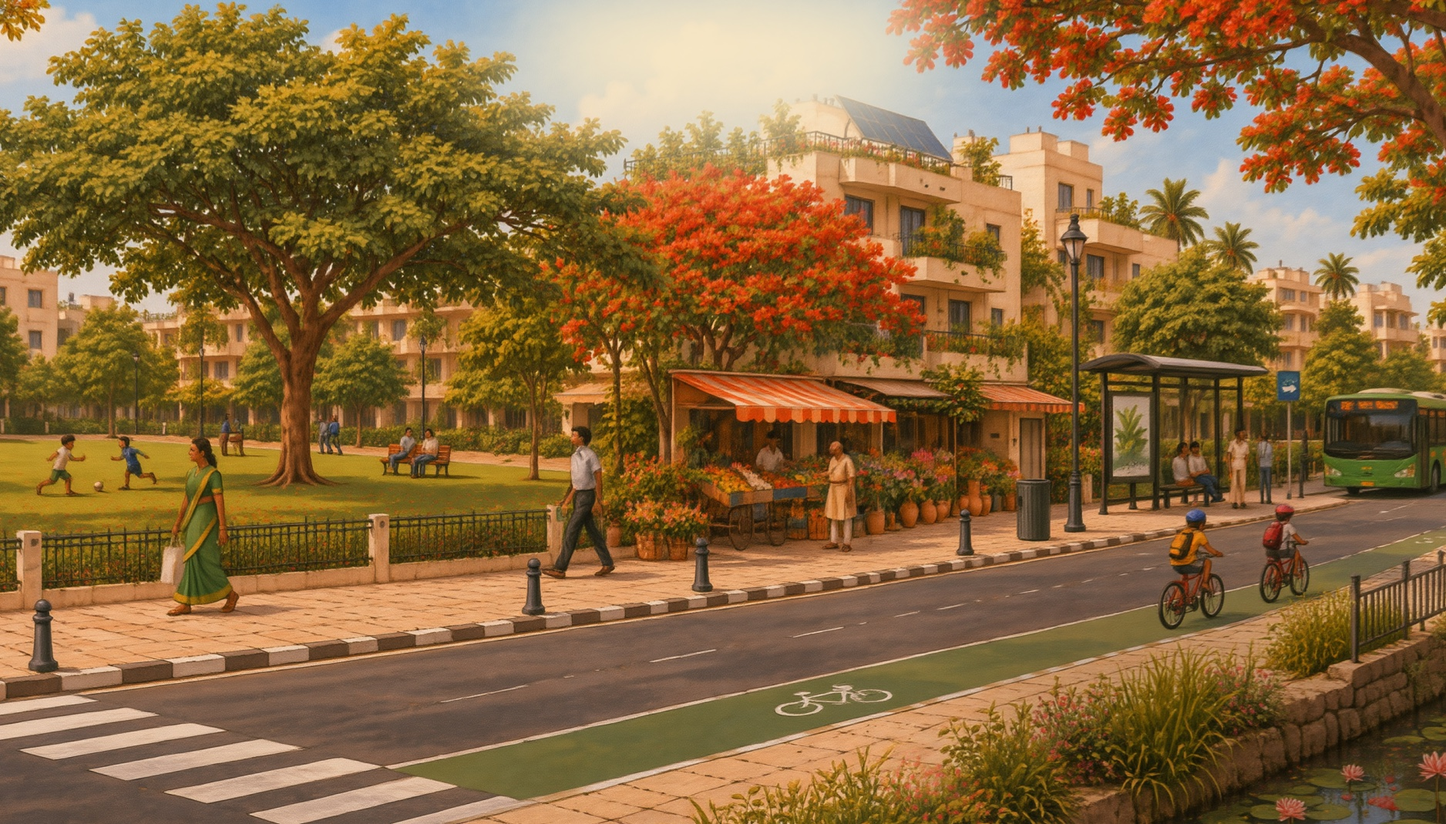
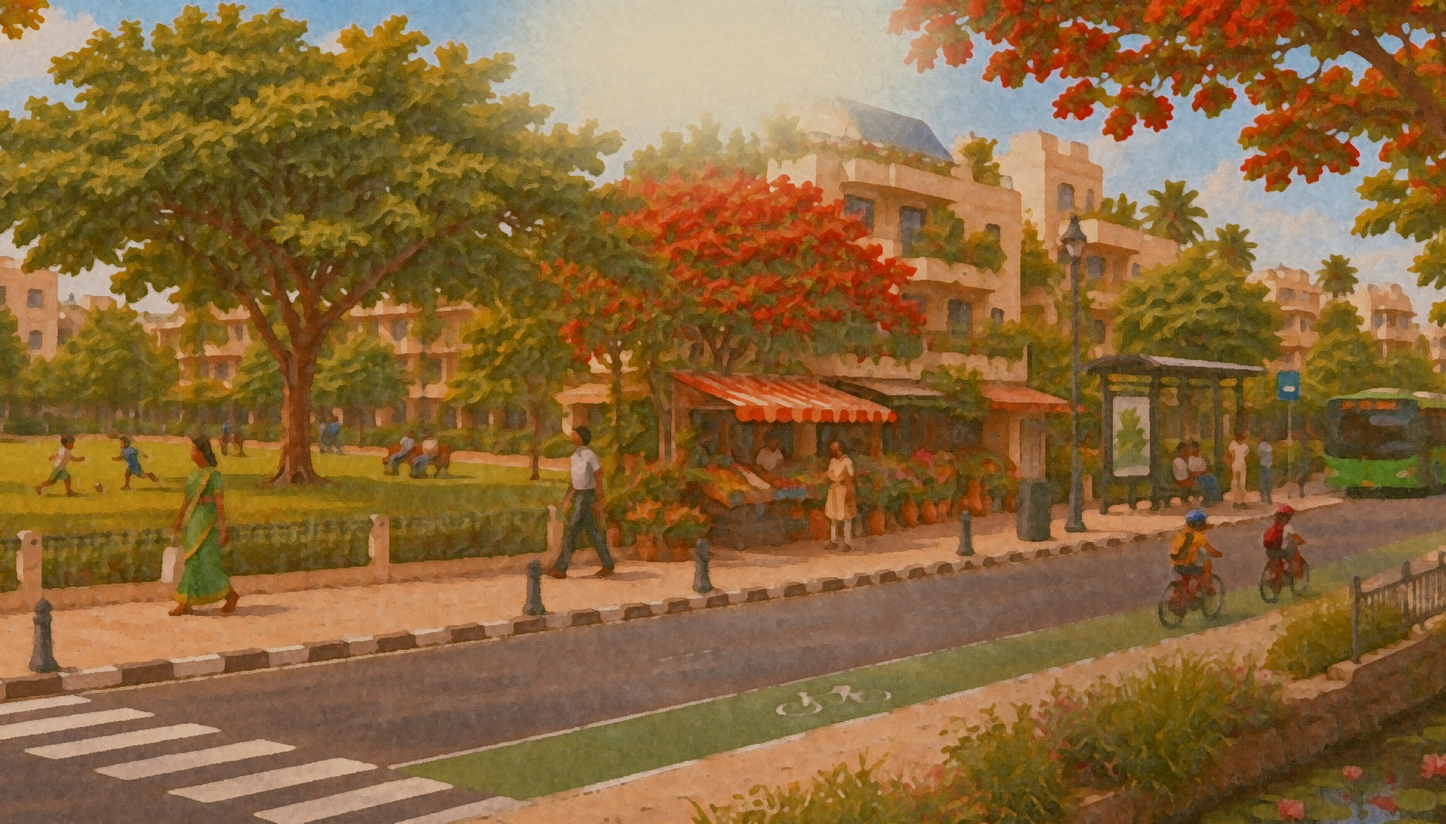
Add files via upload

diff --git a/styles.css b/styles.css
@@ -114,8 +114,12 @@ body.fab-on-dark .apply-fab__rust { opacity: 0; }
 .hero__stage { position: relative; height: calc(var(--vh) * 100); min-height: 520px; overflow: hidden; }
 .hero__probe { position: absolute; inset: var(--ct) var(--cs) var(--cb) var(--cs); visibility: hidden; pointer-events: none; }
 .hero__card { position: absolute; inset: 0; clip-path: inset(var(--ct) var(--cs) var(--cb) var(--cs) round 18px); will-change: clip-path; }
-.hero__card img { position: absolute; left: 0; top: 0; width: 100%; height: 112%; object-fit: cover; object-position: 50% 50%; transform: translate3d(0, -9vh, 0); will-change: transform; }
-.hero__headline { position: absolute; left: 0; right: 0; bottom: calc(var(--cb) - 0.1em); margin: 0; text-align: center; white-space: nowrap; color: #FFFAEC; font-weight: 700; font-size: clamp(2.6rem, 8.6vw, 10.5rem); line-height: 0.78; letter-spacing: -0.045em; will-change: transform; text-shadow: 0 2px 30px rgba(44, 43, 50, 0.18); }
+/* Both hero pictures: a touch more contrast, slightly less colour, and a faint blue wash to take the warmth down */
+.hero__card::after { content: ""; position: absolute; inset: 0; background: #4a86ff; mix-blend-mode: soft-light; opacity: 0.2; pointer-events: none; }
+.hero__card img { filter: contrast(1.08) saturate(0.94); position: absolute; left: 0; top: 0; width: 100%; height: 112%; object-fit: cover; object-position: 50% 50%; transform: translate3d(0, -9vh, 0); will-change: transform; }
+/* Wide version of the scene: fades in as the image frames up into its card, and always fills the card exactly */
+.hero__card img.hero__wide { left: var(--cs); top: var(--ct); width: calc(100% - var(--cs) * 2); height: calc(100% - var(--ct) - var(--cb)); transform: none; will-change: opacity; }
+.hero__headline { z-index: 1; position: absolute; left: 0; right: 0; bottom: calc(var(--cb) - 0.1em); margin: 0; text-align: center; white-space: nowrap; color: #FFFAEC; font-weight: 700; font-size: clamp(2.6rem, 8.6vw, 10.5rem); line-height: 0.78; letter-spacing: -0.045em; will-change: transform; text-shadow: 0 2px 30px rgba(44, 43, 50, 0.18); }
 .hero__below { position: absolute; left: 0; right: 0; bottom: 0; height: var(--cb); display: flex; flex-direction: column; align-items: center; justify-content: center; gap: clamp(12px, 2.2vh, 22px); padding: 0 var(--gutter); text-align: center; }
 .hero__line { font-size: clamp(1rem, 1.35vw, 1.25rem); font-weight: 500; color: var(--green); letter-spacing: -0.01em; }
 .ward { display: inline-flex; justify-content: center; vertical-align: middle; width: 9.4em; margin: 0 0.15em; padding: 0.3em 0; border-radius: 999px; background: var(--cream); border: 1px solid var(--clay); color: var(--rust); overflow: hidden; }
@@ -136,11 +140,12 @@ body.fab-on-dark .apply-fab__rust { opacity: 0; }
 
 /* Glass finish for buttons: each keeps its own colour and gains a lens-like sheen, a bright
    rim, soft inner shading and the same orbiting glints as the glass lens. */
-.btn, .seg button[aria-checked="true"] { position: relative; isolation: isolate; }
-.btn, .js .sound, .seg button[aria-checked="true"] { background-image: linear-gradient(168deg, rgba(255, 255, 255, 0.36), rgba(255, 255, 255, 0) 44%, rgba(255, 255, 255, 0.14)); box-shadow: inset 0 1.5px 1px rgba(255, 255, 255, 0.62), inset 0 -2px 3px rgba(255, 255, 255, 0.22), inset 0 0 8px 1px rgba(255, 255, 255, 0.14), inset 0 -10px 12px -9px rgba(20, 30, 16, 0.26), 0 6px 16px rgba(20, 30, 16, 0.18), 0 1px 3px rgba(20, 30, 16, 0.2); }
+.btn, .seg button[aria-checked="true"], .asks li:first-child { position: relative; isolation: isolate; }
+.btn, .js .sound, .seg button[aria-checked="true"], .asks li:first-child { background-image: linear-gradient(168deg, rgba(255, 255, 255, 0.36), rgba(255, 255, 255, 0) 44%, rgba(255, 255, 255, 0.14)); box-shadow: inset 0 1.5px 1px rgba(255, 255, 255, 0.62), inset 0 -2px 3px rgba(255, 255, 255, 0.22), inset 0 0 8px 1px rgba(255, 255, 255, 0.14), inset 0 -10px 12px -9px rgba(20, 30, 16, 0.26), 0 6px 16px rgba(20, 30, 16, 0.18), 0 1px 3px rgba(20, 30, 16, 0.2); }
 .btn--ghost { -webkit-backdrop-filter: blur(8px) saturate(1.5); backdrop-filter: blur(8px) saturate(1.5); }
-.btn::before, .js .sound::before, .seg button[aria-checked="true"]::before { content: ""; position: absolute; inset: 0; border-radius: inherit; padding: 2px; pointer-events: none; background: conic-gradient(from var(--glint), transparent 0 7%, #C5562C 10.5%, #FAB52A 14.5%, #FFEFD6 18%, #FAB52A 21%, #C5562C 24%, transparent 27% 56%, #FFEFD6 60%, #FAB52A 64%, #C5562C 67%, transparent 71% 100%); -webkit-mask: linear-gradient(#000 0 0) content-box, linear-gradient(#000 0 0); -webkit-mask-composite: xor; mask: linear-gradient(#000 0 0) content-box exclude, linear-gradient(#000 0 0); animation: glint 9s linear infinite; }
+.btn::before, .js .sound::before, .seg button[aria-checked="true"]::before, .asks li:first-child::before { content: ""; position: absolute; inset: 0; border-radius: inherit; padding: 2px; pointer-events: none; background: conic-gradient(from var(--glint), transparent 0 7%, #C5562C 10.5%, #FAB52A 14.5%, #FFEFD6 18%, #FAB52A 21%, #C5562C 24%, transparent 27% 56%, #FFEFD6 60%, #FAB52A 64%, #C5562C 67%, transparent 71% 100%); -webkit-mask: linear-gradient(#000 0 0) content-box, linear-gradient(#000 0 0); -webkit-mask-composite: xor; mask: linear-gradient(#000 0 0) content-box exclude, linear-gradient(#000 0 0); animation: glint 9s linear infinite; }
 .btn::before { inset: -2px; }
+.asks li:first-child::before { inset: -1px; }
 .chip { box-shadow: inset 0 1.5px 1px rgba(255, 255, 255, 0.6), inset 0 -8px 10px -8px rgba(20, 30, 16, 0.2), 0 3px 10px rgba(20, 30, 16, 0.12); }
 
 .hero__cue { display: none; }
@@ -178,6 +183,8 @@ body.fab-on-dark .apply-fab__rust { opacity: 0; }
 .about { background: var(--green-deep); color: var(--cream); position: relative; }
 .about__stage { min-height: calc(var(--vh) * 100); display: flex; flex-direction: column; justify-content: center; align-items: center; text-align: center; padding: 120px var(--gutter) 80px; max-width: 1280px; margin-inline: auto; }
 .about__text { font-family: var(--display); font-weight: 500; font-size: clamp(1.45rem, 2.9vw, 2.7rem); line-height: 1.18; letter-spacing: -0.02em; max-width: min(100%, 900px); text-wrap: balance; }
+/* Programme name: same type as the paragraph below it, in the eyebrow's yellow */
+.about__title { margin: 0 0 0.55em; font-family: var(--display); font-weight: 500; font-size: clamp(1.45rem, 2.9vw, 2.7rem); line-height: 1.18; letter-spacing: -0.02em; color: var(--yellow); }
 .about__text .w { white-space: nowrap; opacity: var(--o, 1); transition: opacity 0.12s linear; }
 .js .about { height: calc(var(--vh) * 260); }
 .js .about__stage { position: sticky; top: 0; height: calc(var(--vh) * 100); }
@@ -227,7 +234,13 @@ body.fab-on-dark .apply-fab__rust { opacity: 0; }
 /* ---------- 4. Who it's for ---------- */
 .who { padding: clamp(80px, 14vh, 160px) 0; background: var(--paper); overflow: hidden; }
 .who__head { text-align: center; }
-.who__head h2 { max-width: 18ch; margin-inline: auto; }
+.who__head h2 { max-width: 18ch; margin-inline: auto; color: var(--green); }
+/* The three themes, each with its own colour dot */
+.who__themes { display: flex; flex-wrap: wrap; justify-content: center; gap: 10px; margin-top: clamp(1.4rem, 3.5vh, 2.2rem); }
+.who__themes li { display: inline-flex; align-items: center; gap: 0.6em; padding: 0.6em 1.25em 0.6em 1.05em; border-radius: 999px; background: var(--cream); color: var(--green-deep); font-family: var(--display); font-weight: 500; font-size: clamp(1rem, 1.35vw, 1.2rem); letter-spacing: -0.01em; }
+.who__themes li::before { content: ""; width: 0.55em; height: 0.55em; border-radius: 50%; background: var(--sage); }
+.who__themes li:nth-child(2)::before { background: var(--yellow); }
+.who__themes li:nth-child(3)::before { background: var(--rust); }
 .marquee { margin: clamp(48px, 9vh, 96px) 0; display: grid; gap: clamp(10px, 2vh, 22px); -webkit-mask: linear-gradient(to right, transparent, #000 10%, #000 90%, transparent); mask: linear-gradient(to right, transparent, #000 10%, #000 90%, transparent); }
 .marquee__row { overflow: hidden; }
 .marquee__track { display: flex; width: max-content; animation: marquee 70s linear infinite; }
@@ -266,6 +279,7 @@ body.fab-on-dark .apply-fab__rust { opacity: 0; }
 .asks h3 { font-size: clamp(1.1rem, 1.6vw, 1.35rem); font-weight: 500; color: var(--yellow); }
 .asks ul { display: flex; flex-wrap: wrap; gap: 10px; }
 .asks li { font-size: 0.92rem; border: 1px solid rgba(255, 239, 214, 0.5); border-radius: 999px; padding: 0.55em 1.1em; }
+.asks li:first-child { background: var(--yellow); border-color: var(--yellow); color: var(--ink); font-weight: 500; }
 @media (max-width: 760px) {
   .step { grid-template-columns: auto 1fr auto; gap: 12px; }
   .step__icon { width: 60px; }
@@ -386,6 +400,6 @@ html[lang="kn"] .ward { margin-inline: 0.5em; }
 @media (prefers-reduced-motion: reduce) {
   html { scroll-behavior: auto; }
   .marquee__track { animation-duration: 240s; }
-  .hero__cue i, .hero__cue svg, .sound__wave, .glass::before, .btn::before, .sound::before, .seg button::before { animation: none !important; }
+  .hero__cue i, .hero__cue svg, .sound__wave, .glass::before, .btn::before, .sound::before, .seg button::before, .asks li::before { animation: none !important; }
   .tab-lens.is-ready { transition: opacity 0.3s; }
 }

diff --git a/index.html b/index.html
@@ -8,15 +8,17 @@
   <meta property="og:title" content="NoTF BLR Small Grants | The fix is local">
   <meta property="og:description" content="Neighbourhood fixes, funded in Bengaluru and shared with the world.">
   <meta property="og:image" content="images/hero-alt.jpg">
-  <link rel="icon" href="images/favicon.svg?v=15" type="image/svg+xml">
-  <link rel="icon" href="images/favicon-32.png?v=15" type="image/png" sizes="32x32">
-  <link rel="apple-touch-icon" href="images/favicon-180.png?v=15">
+  <!-- Same favicon as notf.in -->
+  <link rel="icon" href="images/favicon.ico?v=26" type="image/x-icon">
+  <link rel="icon" href="images/favicon-16.png?v=26" type="image/png" sizes="16x16">
+  <link rel="icon" href="images/favicon-32.png?v=26" type="image/png" sizes="32x32">
+  <link rel="apple-touch-icon" href="images/favicon-180.png?v=26" sizes="180x180">
   <!-- Instrument Sans for Latin text, Noto Sans Kannada for Kannada -->
   <link rel="preconnect" href="https://fonts.googleapis.com">
   <link rel="preconnect" href="https://fonts.gstatic.com" crossorigin>
   <link href="https://fonts.googleapis.com/css2?family=Instrument+Sans:wght@400;500;700&family=Noto+Sans+Kannada:wght@400;500;700&display=swap" rel="stylesheet">
-  <link rel="preload" as="image" href="images/hero.jpg?v=14">
-  <link rel="stylesheet" href="styles.css?v=14">
+  <link rel="preload" as="image" href="images/hero.jpg?v=26">
+  <link rel="stylesheet" href="styles.css?v=26">
 </head>
 <body>
   <a class="skip" href="#about">Skip to content</a>
@@ -46,8 +48,8 @@
   <!-- Floating Apply button (asset swaps white/rust by background) -->
   <a class="apply-fab" href="#apply" aria-label="Apply now">
     <span class="apply-fab__in">
-      <img class="apply-fab__white" src="images/apply-white.svg?v=14" alt="" width="250" height="130">
-      <img class="apply-fab__rust" src="images/apply-rust.svg?v=14" alt="" width="250" height="130">
+      <img class="apply-fab__white" src="images/apply-white.svg?v=26" alt="" width="250" height="130">
+      <img class="apply-fab__rust" src="images/apply-rust.svg?v=26" alt="" width="250" height="130">
     </span>
   </a>
 
@@ -57,7 +59,8 @@
       <div class="hero__stage">
         <div class="hero__probe" aria-hidden="true"></div>
         <div class="hero__card">
-          <img src="images/hero.jpg?v=14" alt="Illustration of a Bengaluru neighbourhood street with a park, flower stall, bus stop and cycle lane" fetchpriority="high">
+          <img src="images/hero.jpg?v=26" alt="Illustration of a Bengaluru neighbourhood street with a park, flower stall, bus stop and cycle lane" fetchpriority="high">
+          <img class="hero__wide" src="images/hero-wide.jpg?v=26" alt="">
           <h1 class="hero__headline" data-i18n="hero.h1">The fix is local</h1>
         </div>
         <div class="hero__below">
@@ -76,6 +79,7 @@
     <section class="about" id="about" data-scrub="about">
       <div class="about__stage">
         <p class="eyebrow eyebrow--light" data-i18n="about.eyebrow">About</p>
+        <h2 class="about__title" data-i18n="about.title">Small Grants Program</h2>
         <p class="about__text" data-words data-i18n="about.text">Neighbourhood fixes, funded in Bengaluru and shared with the world. Small, short-term grants for people already solving neighbourhood problems, who just need some help to get across the finish line.</p>
       </div>
     </section>
@@ -117,6 +121,11 @@
       <div class="wrap who__head">
         <p class="eyebrow" data-i18n="who.eyebrow">Who it's for</p>
         <h2 data-i18n="who.h2">For people already fixing <em>their corner</em> of Bengaluru.</h2>
+        <ul class="who__themes" aria-label="Themes">
+          <li data-i18n="theme.1">Environment</li>
+          <li data-i18n="theme.2">Public spaces</li>
+          <li data-i18n="theme.3">Community wellbeing</li>
+        </ul>
       </div>
       <div class="marquee">
         <div class="marquee__row marquee__row--left">
@@ -295,7 +304,8 @@
         <h2 data-i18n="cta.h2">Ready to finish your fix?</h2>
         <p data-i18n="cta.p">The fix is local. The idea travels. If you're already working on a neighbourhood fix and just need a push across the finish line, we'd love to hear from you.</p>
         <div class="cta__btns">
-          <span class="btn btn--cream" aria-disabled="true" data-i18n="cta.soon">Form opens soon</span>
+          <!-- No application form link yet: for now this opens an email to the programme address. Swap the href for the form URL when it exists. -->
+          <a class="btn btn--cream" href="mailto:notf.blr@socratusfoundation.in?subject=Small%20Grants%20application" data-i18n="how.apply">Apply now</a>
           <a class="btn btn--ghost" href="#faq" data-i18n="cta.faq">Read the FAQs</a>
         </div>
       </div>
@@ -316,8 +326,8 @@
     <p class="wrap foot__legal">© 2026 Neighbourhoods of the Future · Part of PDGI (People's Digital Goods &amp; Infrastructure)<br><a href="https://www.notf.in/" target="_blank" rel="noopener">notf.in</a> · <a href="mailto:notf.blr@socratusfoundation.in">notf.blr@socratusfoundation.in</a> · <a href="https://creativecommons.org/licenses/by-nc-sa/4.0/" target="_blank" rel="noopener">CC BY-NC-SA 4.0</a></p>
   </footer>
 
-  <script src="i18n-kn.js?v=14"></script>
-  <script src="script.js?v=14"></script>
-  <script src="ambience.js?v=14"></script>
+  <script src="i18n-kn.js?v=26"></script>
+  <script src="script.js?v=26"></script>
+  <script src="ambience.js?v=26"></script>
 </body>
 </html>

diff --git a/script.js b/script.js
@@ -346,6 +346,7 @@
   /* ---------- Hero refs ---------- */
   const heroCard = $('.hero__card');
   const heroImg = $('img', heroCard);
+  const heroWide = $('.hero__wide', heroCard);
   const heroHeadline = $('.hero__headline');
   const heroBelow = $('.hero__below');
   const heroCue = $('.hero__cue');
@@ -366,6 +367,12 @@
       const bottom = stage.offsetHeight - t - heroProbe.offsetHeight;
       heroCard.style.clipPath = `inset(${e * t}px ${e * side}px ${e * bottom}px ${e * side}px round ${e * 18}px)`;
       heroImg.style.transform = `translate3d(0, ${-e * 9}vh, 0)`;
+      // The wide picture tracks the shrinking frame and takes over from the opening picture
+      heroWide.style.left = `${e * side}px`;
+      heroWide.style.top = `${e * t}px`;
+      heroWide.style.width = `${stage.offsetWidth - e * side * 2}px`;
+      heroWide.style.height = `${stage.offsetHeight - e * (t + bottom)}px`;
+      heroWide.style.opacity = clamp((e - 0.15) / 0.6);
       const h = out(clamp((p - 0.3) / 0.5));
       heroHeadline.style.transform = `translate3d(0, ${(1 - h) * (bottom + heroHeadline.offsetHeight * 1.2)}px, 0)`;
       const b = clamp((p - 0.55) / 0.25);
@@ -376,7 +383,7 @@
       [heroCue, heroSound].forEach(b => { b.style.opacity = cue; b.style.pointerEvents = cue > 0.5 ? '' : 'none'; b.tabIndex = cue > 0.5 ? 0 : -1; });
       // Logo travels from top-centre (on the image) to the top-left of the header bar
       const w = logo.offsetWidth;
-      const s = 1 + (1 - e) * 0.55;
+      const s = 1 + (1 - e) * 0.705;   // logo on the opening image is 1.705x its header size
       top.style.setProperty('--bar', e);
       top.style.setProperty('--ls', s);
       top.style.setProperty('--lx', `${(1 - e) * (innerWidth / 2 - logo.offsetLeft - (w * s) / 2)}px`);

diff --git a/i18n-kn.js b/i18n-kn.js
@@ -15,6 +15,7 @@ window.NOTF_KN = {
   'hero.scroll': 'ಸ್ಕ್ರಾಲ್ ಮಾಡಿ',
 
   'about.eyebrow': 'ಕುರಿತು',
+  'about.title': 'ಸಣ್ಣ ಅನುದಾನ ಕಾರ್ಯಕ್ರಮ',
   'about.text': 'ಬೆಂಗಳೂರಿನಲ್ಲಿ ಅನುದಾನ ಪಡೆದು, ಇಡೀ ಜಗತ್ತಿನೊಂದಿಗೆ ಹಂಚಿಕೊಳ್ಳುವ ನೆರೆಹೊರೆಯ ಪರಿಹಾರಗಳು. ಈಗಾಗಲೇ ನೆರೆಹೊರೆಯ ಸಮಸ್ಯೆಗಳನ್ನು ಬಗೆಹರಿಸುತ್ತಿರುವ, ಗುರಿ ಮುಟ್ಟಲು ಸ್ವಲ್ಪ ಸಹಾಯ ಬೇಕಿರುವವರಿಗೆ ಸಣ್ಣ, ಅಲ್ಪಾವಧಿಯ ಅನುದಾನಗಳು.',
 
   'grant.eyebrow': 'ಅನುದಾನದ ಮೊತ್ತ',
@@ -44,6 +45,9 @@ window.NOTF_KN = {
   't.5': 'ನಡಿಗೆ ಮತ್ತು ಸಂಚಾರ',
   't.6': 'ಸುರಕ್ಷತೆ',
   't.7': 'ಬೇರೆ ಏನಾದರೂ',
+  'theme.1': 'ಪರಿಸರ',
+  'theme.2': 'ಸಾರ್ವಜನಿಕ ಸ್ಥಳಗಳು',
+  'theme.3': 'ಸಮುದಾಯದ ಯೋಗಕ್ಷೇಮ',
   'who.l1': 'ಬೆಂಗಳೂರಿನಲ್ಲಿ ನೆಲೆಸಿರುವವರು',
   'who.l2': 'ನಿರ್ದಿಷ್ಟ ನೆರೆಹೊರೆಯ ಸಮಸ್ಯೆಯನ್ನು ಬಗೆಹರಿಸುತ್ತಿರುವವರು',
   'who.l3': 'ಬೇರೆಡೆಗೂ ಹರಡಬಲ್ಲ ಆಲೋಚನೆ ಇರುವವರು',
